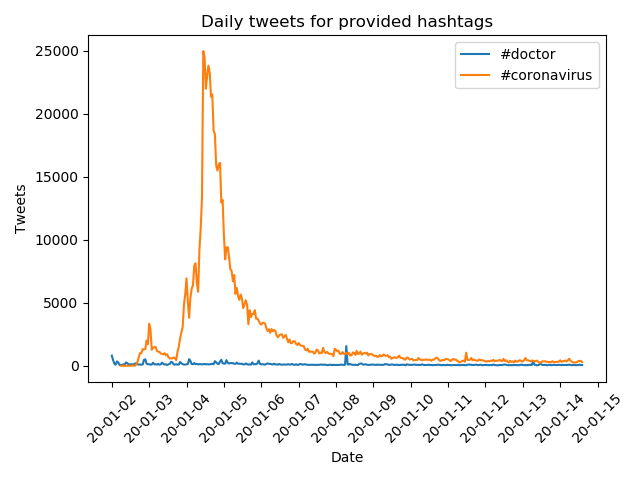
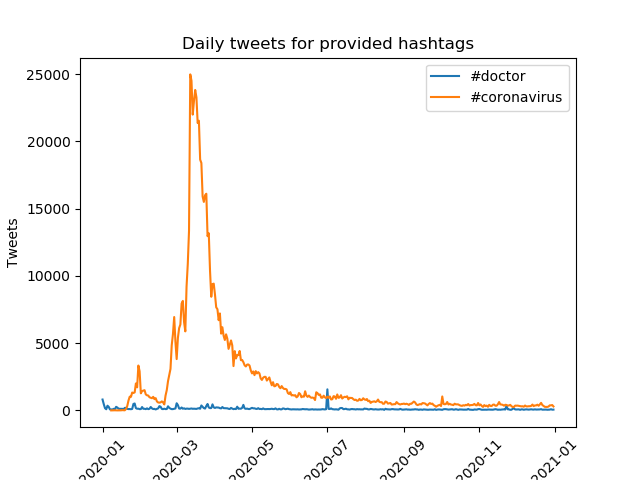
Converted x axis to date objects

diff --git a/src/alternative_reduce.py b/src/alternative_reduce.py
@@ -15,6 +15,7 @@ matplotlib.use('Agg')
 import matplotlib.pyplot as plt
 from matplotlib.ticker import MultipleLocator
 from collections import Counter,defaultdict
+from datetime import datetime
 
 total = {}
 file_pat = "/home/elaa2020/bigdata/hw/hw2/twitter_coronavirus/outputs/geoTwitter20-*.lang"
@@ -32,7 +33,7 @@ for file in files:
                     total[(date, hsh)] += tmp[hsh][language]
 
 total = dict(sorted(total.items(), key = lambda key: key[0]))
-countDates = 0
+fig, ax = plt.subplots()
 for hsh in args.hashtags:
     dates = []
     counts = []
@@ -42,17 +43,14 @@ for hsh in args.hashtags:
             dates.append(k[0])
             counts.append(total[k])
 
-    countDates = len(dates)
-    plt.plot(dates, counts, label=hsh)
+    dates = [datetime.strptime(date_str, "%y-%m-%d") for date_str in dates]
+    ax.plot(dates, counts, label=hsh)
 
 plt.xticks(rotation=45)
 plt.xlabel('Date')
 plt.ylabel('Tweets')
 plt.title('Daily tweets for provided hashtags')
 plt.legend()
-ax = plt.gca()
-ax.xaxis.set_major_locator(MultipleLocator(countDates//12))
-plt.tight_layout()
 
 finalHashes = ""
 for hsh in args.hashtags:
